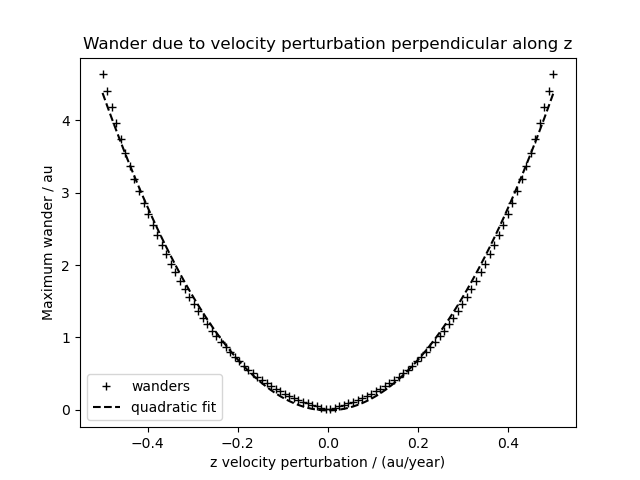
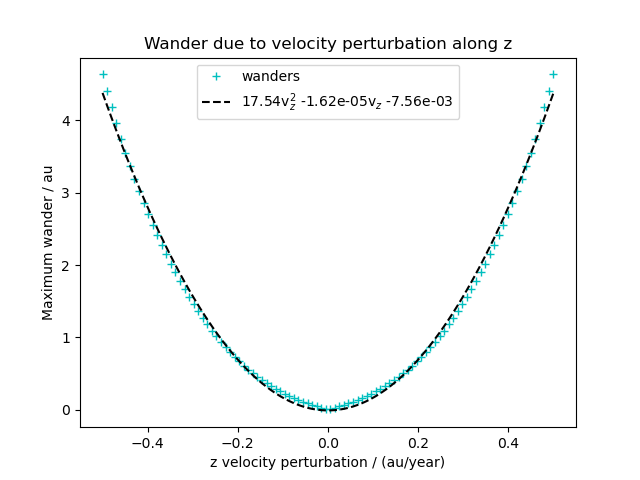
Changed format of vz equation

diff --git a/varyingzvelocity.py b/varyingzvelocity.py
@@ -37,7 +37,7 @@ if __name__ == "__main__":
 
     (a, b, c), pcov = curve_fit(quadratic, vs, wanders)
 
-    equation_string = "{:.2f}v$_z^2$ {:+.2f}v$_z$ {:+.2f}".format(a, b, c)
+    equation_string = "{:.2f}v$_z^2$ {:+.2e}v$_z$ {:+.2e}".format(a, b, c)
 
     fig, ax = plt.subplots()
 
